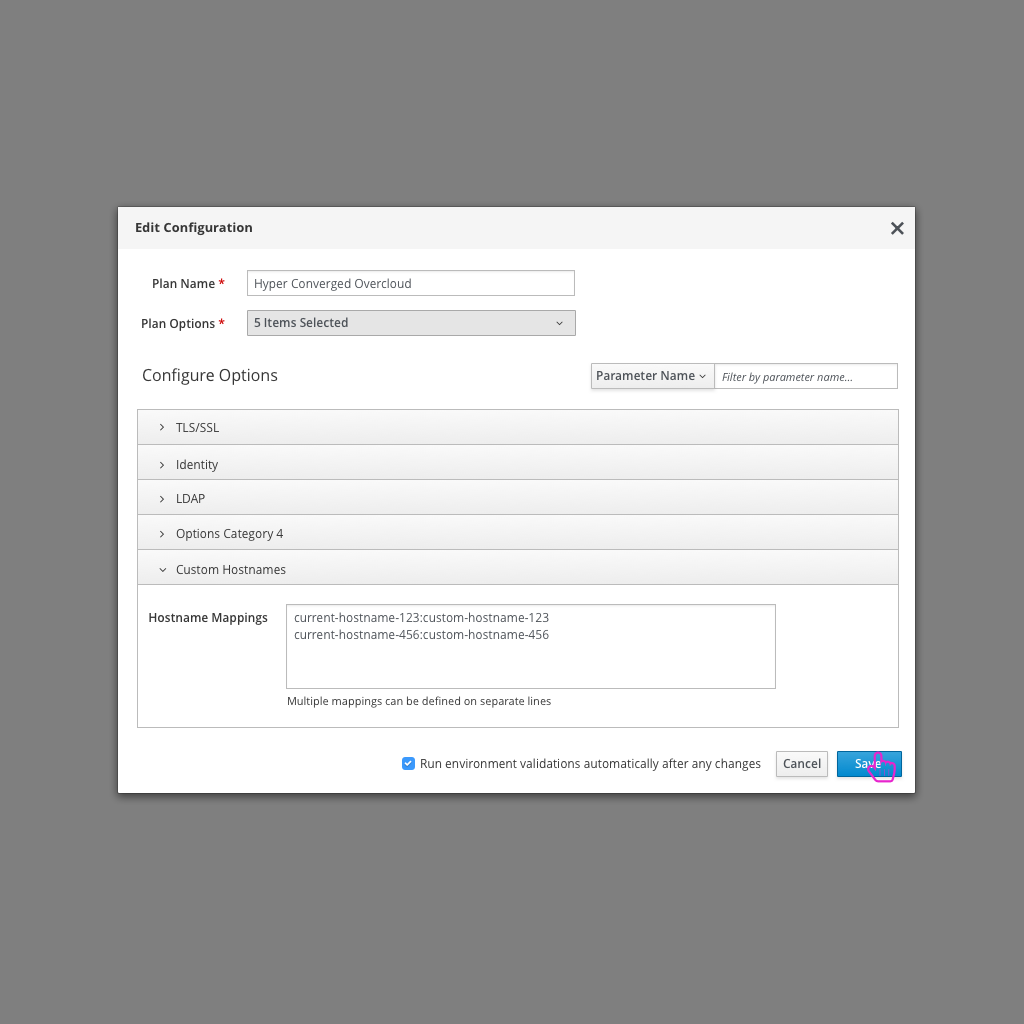
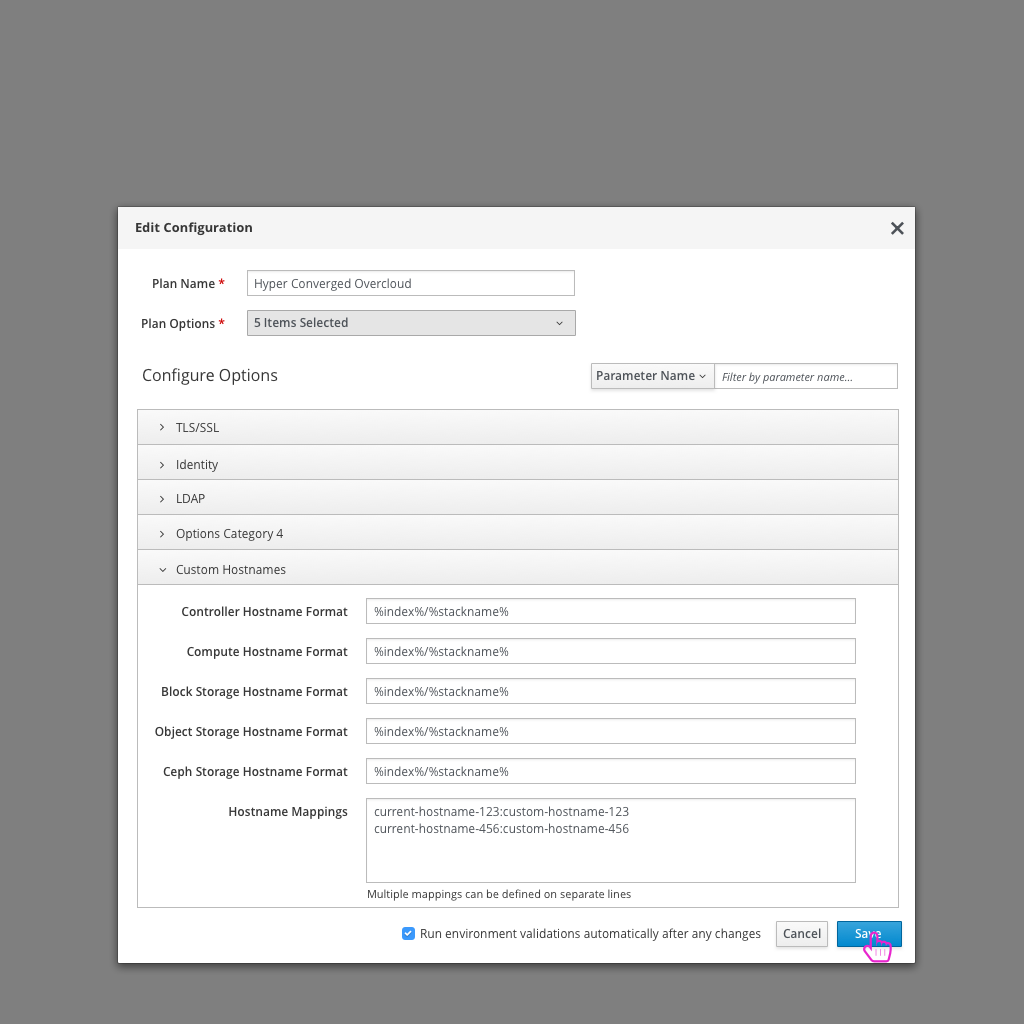
Updating custom hostnames, adding custom domain

Changed region(s): [[0.0938, 0.5938, 0.9062, 0.9688]]

diff --git a/tripleo-ui/3-tripleo-ui-edge-cases/22.customhostnames.md b/tripleo-ui/3-tripleo-ui-edge-cases/22.customhostnames.md
@@ -1,4 +1,4 @@
-# Custom Hostnames
+# Custom Hostnames and Custom Domain
 ![editconfiguration](img/Custom Hostname-Edit_Configuration.png)
 - In some scenarios, the user might want to customize a number of hostnames that will be used in their deployment. Editing the configuration will allow the user to have access to an option to turn this on.
 
@@ -6,4 +6,13 @@
 - Selecting "Custom Hostnames" from the dropdown will expose a set of parameters for the user.
 
 ![editconfigurationmodal2](img/Custom Hostname-Edit_Configuration_Modal2.png)
-- At this point the user can configure mappings of current hostnames to custom hostnames.
+- At this point the user can define hostname naming schemes per role along with configure mappings of current hostnames to custom hostnames.
+
+![editconfiguration](img/Custom Domain-Edit_Configuration.png)
+- In some scenarios, the user might want to customize the cloud domain information for their deployment. Editing the configuration will allow the user to have access to an option to turn this on.
+
+![editconfigurationmodal](img/Custom Domain-Edit_Configuration_Modal.png)
+- Selecting "Custom Domain" from the dropdown will expose a set of parameters for the user.
+
+![editconfigurationmodal2](img/Custom Domain-Edit_Configuration_Modal2.png)
+- At this point the user can define the Cloud Domain, Cloud Name, and the FQDNs for each network cloud name.
